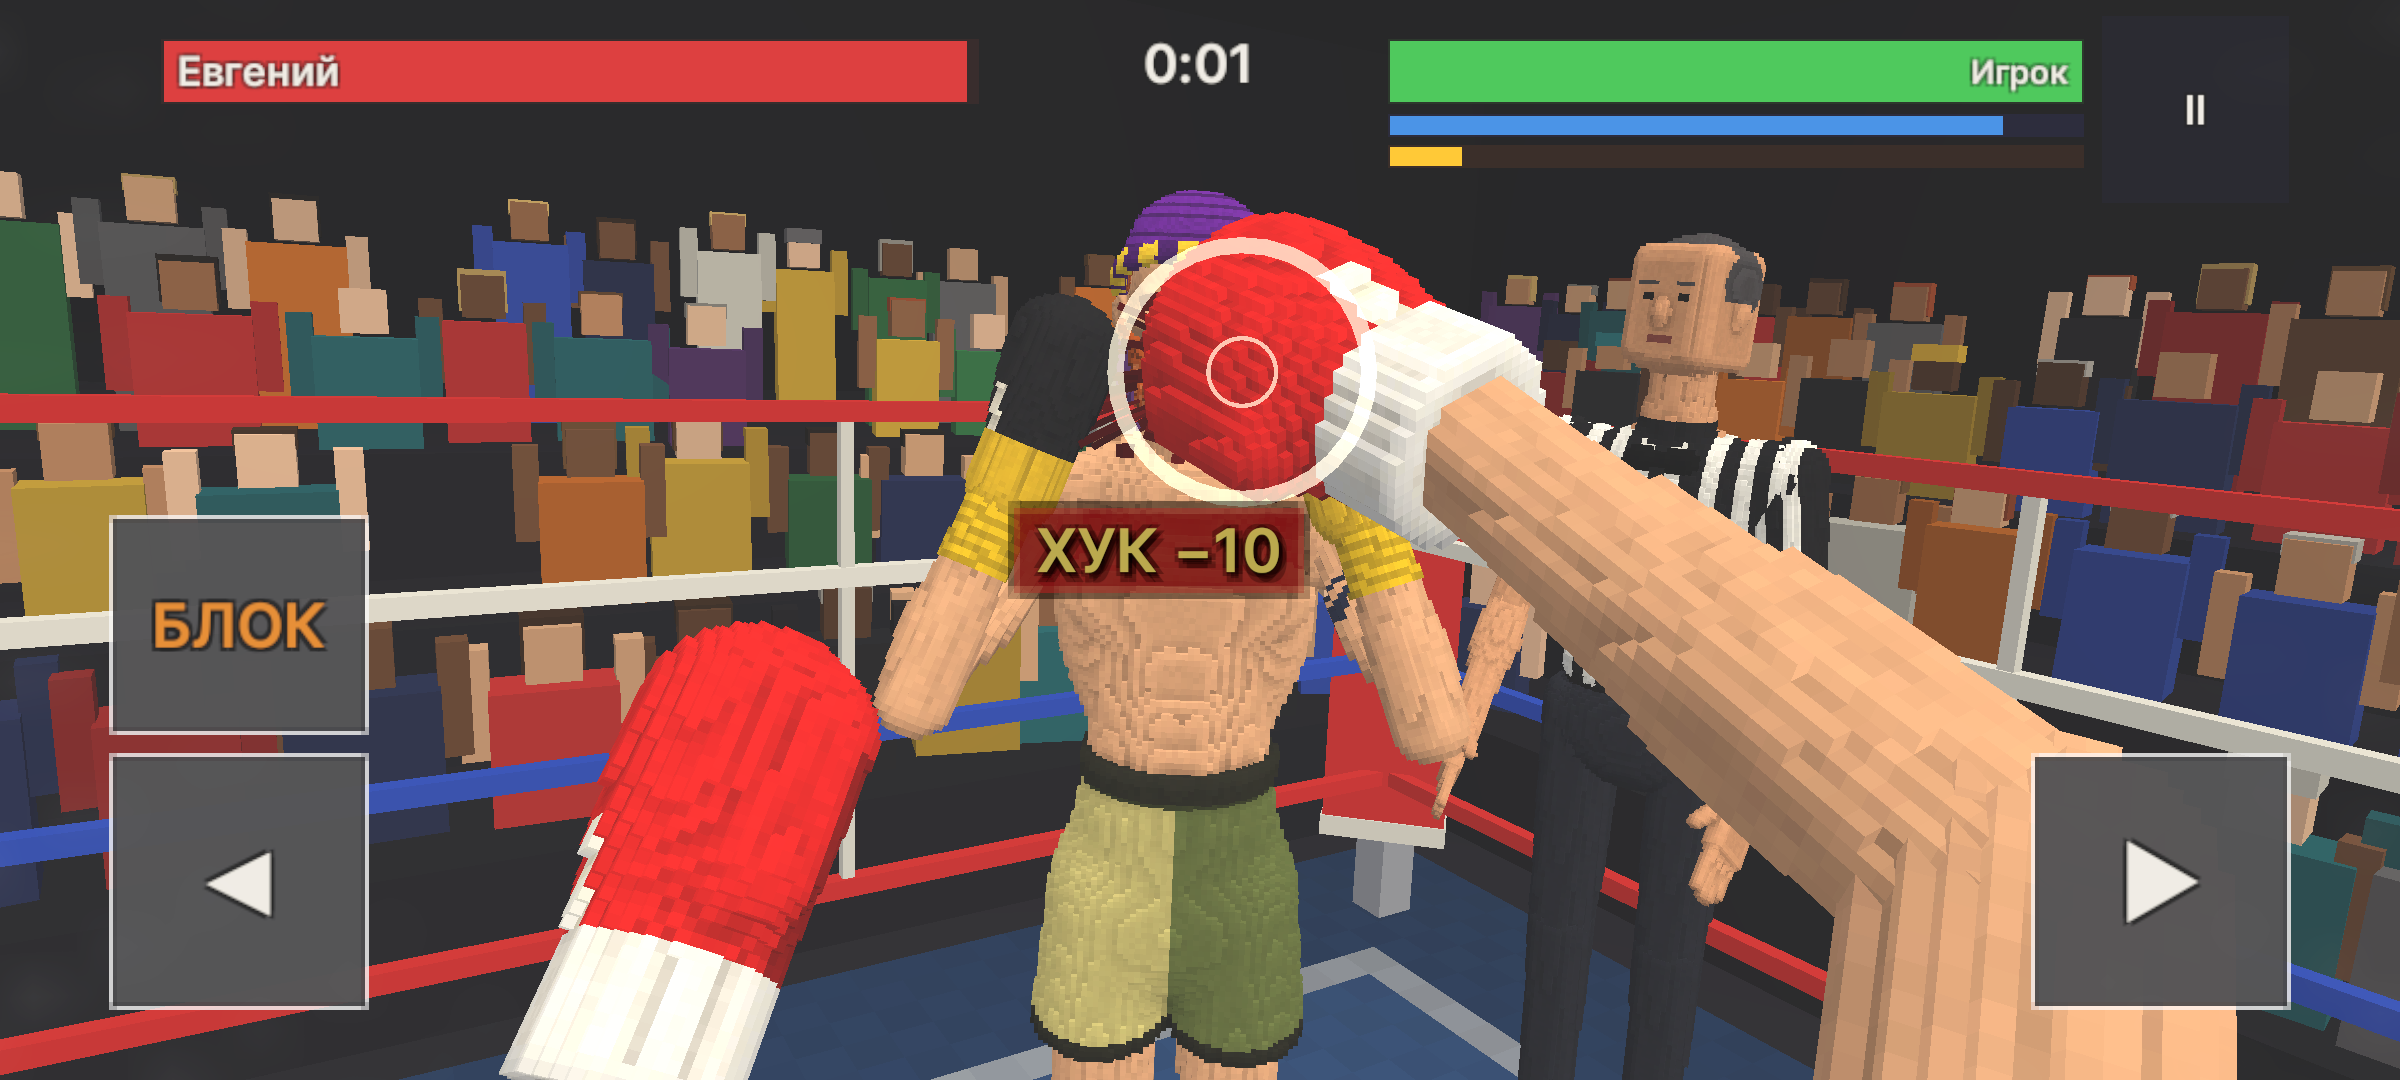
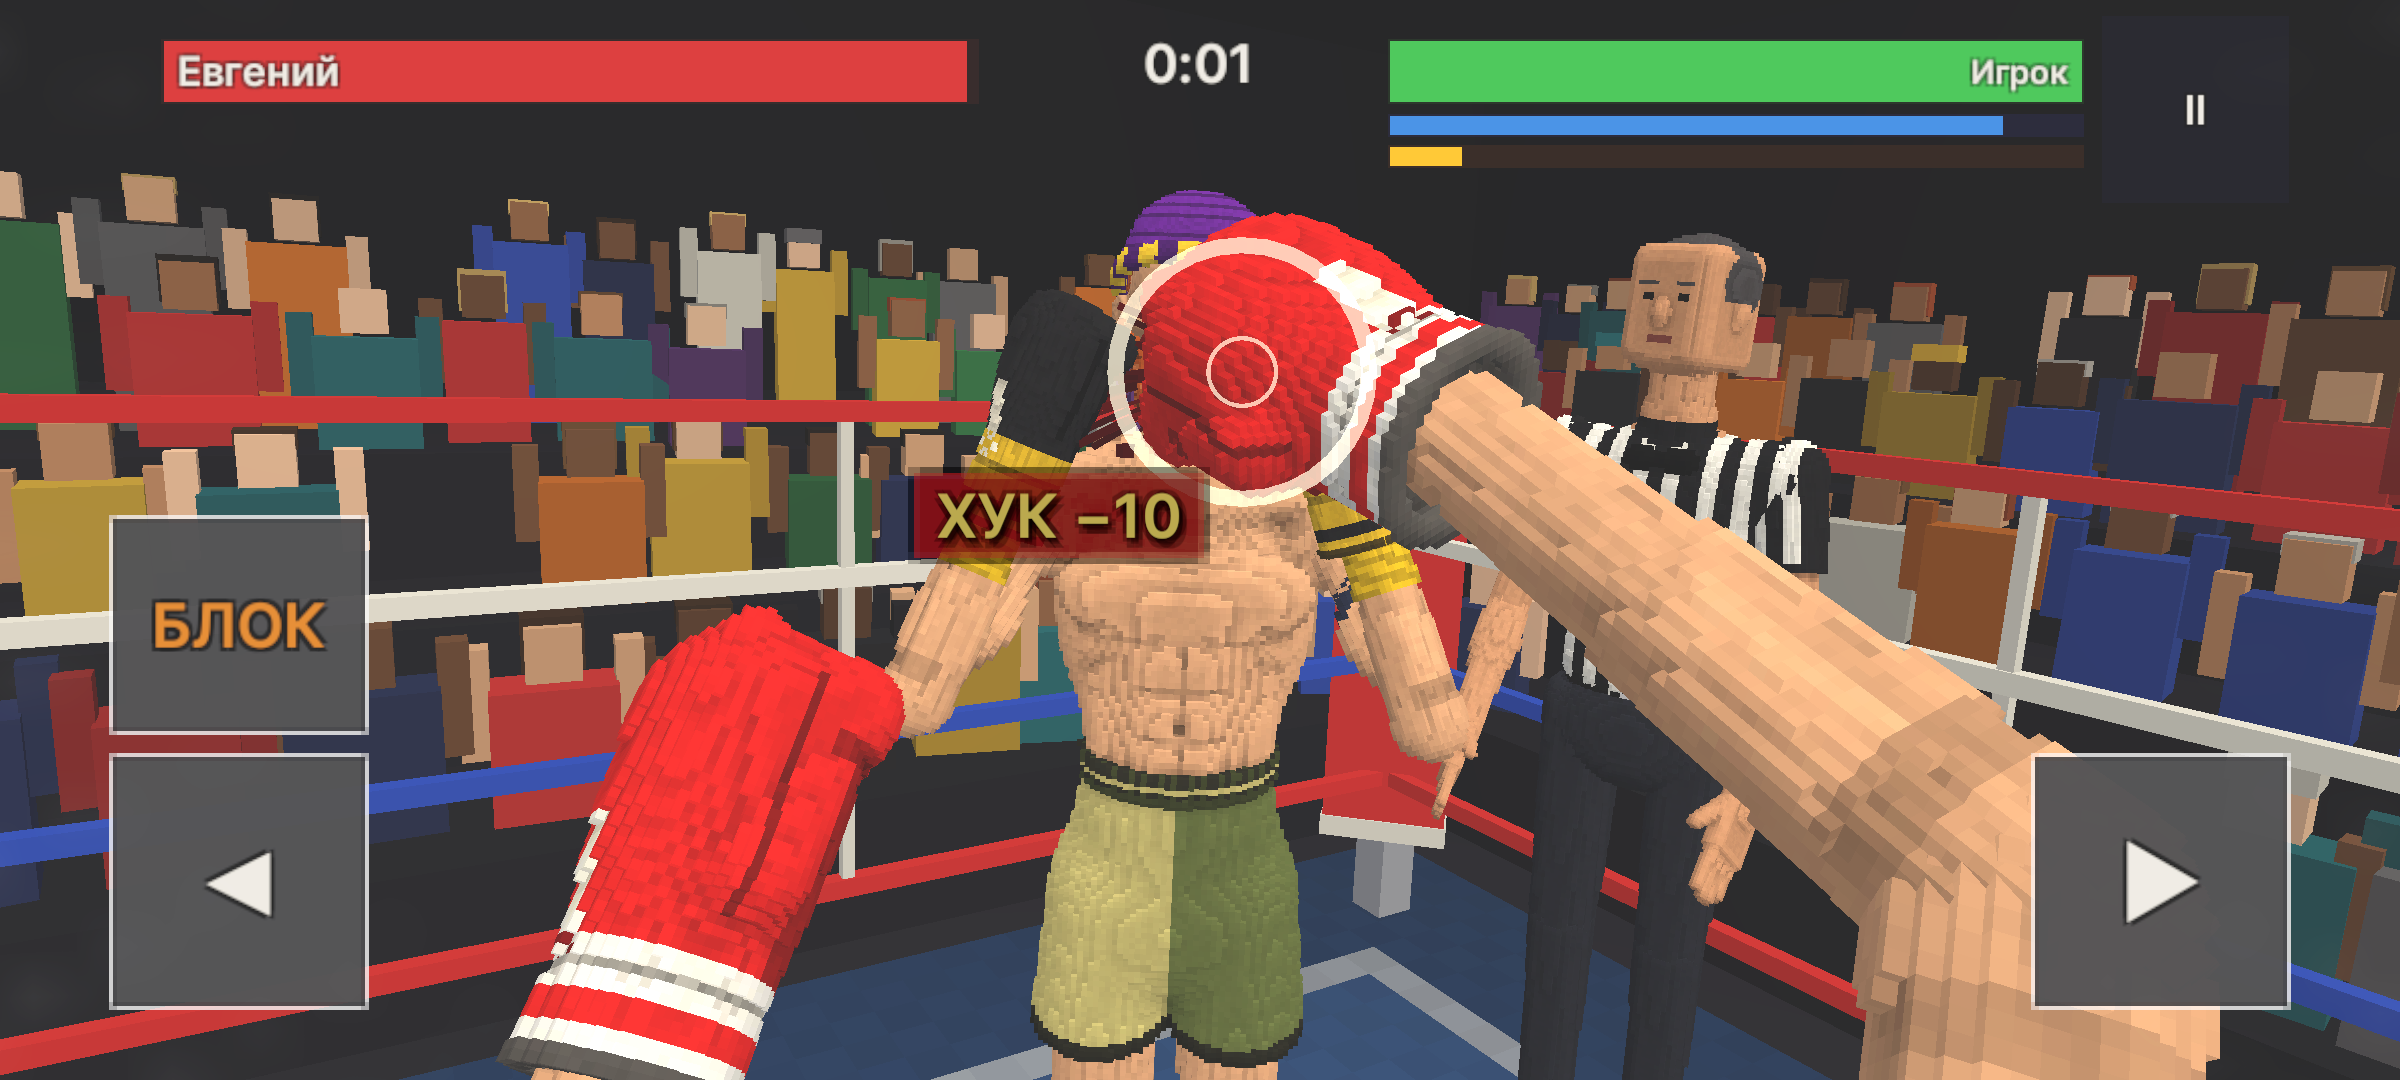
Плашка удара: обход нового силуэта руки
После слияния рук arms-body портретный джеб ставил плашку на грудь соперника, и рука на возврате проходила по ней
(перекрытие 0,771). Рука джеба приходит сбоку, а уходит вниз в стойку, поэтому маска рук (FxDirector.ArmMask) теперь
кроме поз за 0,15 с покрывает путь возврата: 6 поз между нынешней и позой 0,35 с назад (рука в стойке).
HitFx2: перекрытие за показ ≤ 0,012 во всех шести случаях; расстояние до точки удара портрет 0,243 / 0,237 / 0,243,
ландшафт 0,215 / 0,208 / 0,219. Снимки Shots/hit-fx-2 пересняты.

Changed region(s): [[0.1875, 0.2139, 0.9375, 1.0]]

diff --git a/Unity/Assets/Game/Runtime/Effects/FxDirector.cs b/Unity/Assets/Game/Runtime/Effects/FxDirector.cs
@@ -508,7 +508,9 @@ namespace VoxGame
         // Руки игрока для места плашки (доработка 4): перчатки с манжетой и предплечья. Плашка выбирает место один раз и
         // стоит всё время показа, поэтому обходит не только руки сейчас, но и их позы за ArmHistN кадров: рука после удара
         // возвращается тем же путём, которым шла к удару.
-        public const int ArmHistN = 9, ArmHistStep = 4, ArmHistStride = 4;   // кадров истории (0,15 с); брать каждую 4-ю позу и каждую 4-ю точку
+        // Обратно рука идёт не всегда тем же путём: у джеба в портрете она приходит сбоку, а уходит вниз, в стойку.
+        // Поэтому ещё и путь возврата: позы между нынешней и позой ArmHistN−1 кадров назад (до удара, рука в стойке), ArmSweepN шагов.
+        public const int ArmHistN = 21, ArmHistRecent = 9, ArmHistStep = 4, ArmHistStride = 4, ArmSweepN = 6;   // история 0,35 с; недавние 0,15 с — каждая 4-я поза, каждая 4-я точка
         static readonly string[] ArmRigNames = { "playerArms/playerGlove0", "playerArms/playerGlove1", "playerArms/playerForeArm0", "playerArms/playerForeArm1" };
         readonly MeshFilter[] _armMf = new MeshFilter[4];
         readonly Matrix4x4[] _armHist = new Matrix4x4[ArmHistN * 4];   // поза части в осях камеры; [кадр·4 + часть]
@@ -541,29 +543,41 @@ namespace VoxGame
         {
             Pops.BeginMask();
             float tv = Mathf.Tan(_cam.fieldOfView * 0.5f * Mathf.Deg2Rad);
-            for (int ago = 0; ago < ArmHistN; ago += ArmHistStep)
+            for (int ago = 0; ago < ArmHistRecent; ago += ArmHistStep)
             {
                 int f = (_armHead - ago + ArmHistN) % ArmHistN;
-                int stride = ago == 0 ? 1 : ArmHistStride;
-                float pad = FxPops.MaskPad * (ago == 0 ? 1f : ArmHistPad);
                 for (int s = 0; s < 4; s++)
+                    if (_armHistOn[f * 4 + s]) ArmSplat(s, _armHist[f * 4 + s], ago == 0 ? 1 : ArmHistStride, ago / ArmHistStep, ago == 0 ? 1f : ArmHistPad, tv);
+            }
+            int fo = (_armHead + 1) % ArmHistN;   // самая старая поза
+            for (int s = 0; s < 4; s++)
+            {
+                if (!_armHistOn[_armHead * 4 + s] || !_armHistOn[fo * 4 + s]) continue;
+                Matrix4x4 a = _armHist[_armHead * 4 + s], b = _armHist[fo * 4 + s];
+                Vector3 pa = a.GetColumn(3), pb = b.GetColumn(3);
+                Quaternion ra = a.rotation, rb = b.rotation; Vector3 sc = a.lossyScale;
+                for (int k = 1; k <= ArmSweepN; k++)
                 {
-                    if (!_armHistOn[f * 4 + s]) continue;
-                    var mf = _armMf[s];
-                    var pts = mf != null ? GloveLooks.Silhouette(mf.sharedMesh) : null;
-                    if (pts == null) continue;
-                    Matrix4x4 m = _armHist[f * 4 + s];
-                    float hw = pad * GloveLooks.SilStepCm * 0.01f * mf.transform.lossyScale.x;   // полшага с запасом, м
-                    for (int i = (ago / ArmHistStep) % stride; i < pts.Length; i += stride)
-                    {
-                        Vector3 v = m.MultiplyPoint3x4(pts[i]);
-                        if (v.z <= 0.01f) continue;
-                        float fy = 0.5f / (v.z * tv), fx = fy / _aspect;
-                        Pops.MaskSplat(0.5f + v.x * fx, 0.5f + v.y * fy, hw * fx, hw * fy);
-                    }
+                    float t = k / (float)ArmSweepN;
+                    ArmSplat(s, Matrix4x4.TRS(Vector3.Lerp(pa, pb, t), Quaternion.Slerp(ra, rb, t), sc), ArmHistStride, k, ArmHistPad, tv);
                 }
             }
             Pops.EndMask();
+        }
+
+        void ArmSplat(int s, Matrix4x4 m, int stride, int phase, float padK, float tv)
+        {
+            var mf = _armMf[s];
+            var pts = mf != null ? GloveLooks.Silhouette(mf.sharedMesh) : null;
+            if (pts == null) return;
+            float hw = FxPops.MaskPad * padK * GloveLooks.SilStepCm * 0.01f * mf.transform.lossyScale.x;   // полшага с запасом, м
+            for (int i = phase % stride; i < pts.Length; i += stride)
+            {
+                Vector3 v = m.MultiplyPoint3x4(pts[i]);
+                if (v.z <= 0.01f) continue;
+                float fy = 0.5f / (v.z * tv), fx = fy / _aspect;
+                Pops.MaskSplat(0.5f + v.x * fx, 0.5f + v.y * fy, hw * fx, hw * fy);
+            }
         }
 
         static readonly string[] GloveNames = { "playerGlove0", "playerGlove1" };
